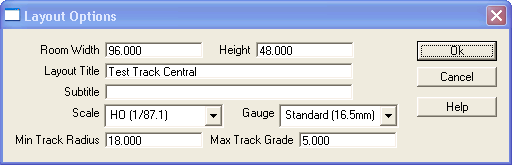
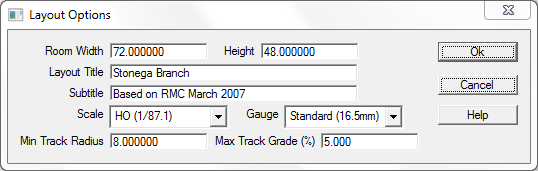
All: Documentation updates

diff --git a/app/bin/layout.c b/app/bin/layout.c
@@ -237,7 +237,7 @@ static paramData_t layoutPLs[] = {
     { PD_DROPLIST, &thisLayout.props.curGaugeInx, "gauge", PDO_NOPREF | PDO_NOPSHUPD | PDO_NORECORD | PDO_NOUPDACT | PDO_DLGHORZ, (void *)120, N_("     Gauge"), 0, (void *)(CHANGE_SCALE) },
 #define MINRADIUSENTRY (6)
     { PD_FLOAT, &thisLayout.props.minTrackRadius, "mintrackradius", PDO_DIM | PDO_NOPSHUPD | PDO_NOPREF, &r1_10000, N_("Min Track Radius"), 0, (void*)(CHANGE_MAIN | CHANGE_LIMITS) },
-    { PD_FLOAT, &thisLayout.props.maxTrackGrade, "maxtrackgrade", PDO_NOPSHUPD | PDO_DLGHORZ, &r0_90, N_(" Max Track Grade"), 0, (void*)(CHANGE_MAIN) }
+    { PD_FLOAT, &thisLayout.props.maxTrackGrade, "maxtrackgrade", PDO_NOPSHUPD | PDO_DLGHORZ, &r0_90, N_(" Max Track Grade (%)"), 0, (void*)(CHANGE_MAIN) }
 };
 
 static paramGroup_t layoutPG = { "layout", PGO_RECORD | PGO_PREFMISC, layoutPLs, sizeof layoutPLs / sizeof layoutPLs[0] };
